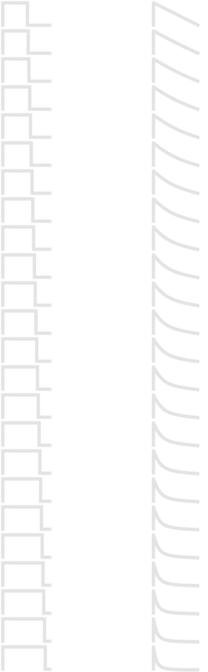
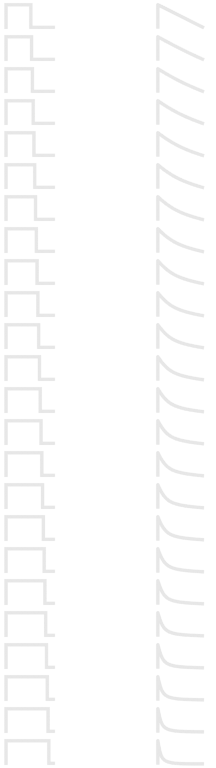
Make the osc PW animation match the sound
Also improve the LFO waveforms animation sharpness.

Also adjust the display range of Osc 2 PW Offset parameter to match what's actually happening.

diff --git a/src/PluginEditor.cpp b/src/PluginEditor.cpp
@@ -1548,6 +1548,7 @@ void ObxfAudioProcessorEditor::idle()
     }
 
     countTimer++;
+
     if (countTimer == 4 && needNotifytoHost)
     {
         countTimer = 0;
@@ -1556,14 +1557,19 @@ void ObxfAudioProcessorEditor::idle()
     }
 
     if (midiLearnButton)
+    {
         midiLearnButton->setToggleState(paramAdapter.midiLearnAttachment.get(),
                                         juce::dontSendNotification);
+    }
 
     if (midiUnlearnButton)
+    {
         midiUnlearnButton->setToggleState(paramAdapter.midiUnlearnAttachment.get(),
                                           juce::dontSendNotification);
+    }
 
     countTimerForLed++;
+
     if (midiUnlearnButton && midiUnlearnButton->getToggleState() && countTimerForLed > 3)
     {
         midiUnlearnButton->setToggleState(false, juce::NotificationType::sendNotification);
@@ -1580,10 +1586,14 @@ void ObxfAudioProcessorEditor::idle()
             if (voiceLEDs[i])
             {
                 if (i >= curPoly && voiceLEDs[i]->isVisible())
+                {
                     voiceLEDs[i]->setVisible(false);
+                }
 
                 if (i < curPoly && !voiceLEDs[i]->isVisible())
+                {
                     voiceLEDs[i]->setVisible(true);
+                }
             }
         }
 
@@ -1593,7 +1603,9 @@ void ObxfAudioProcessorEditor::idle()
                 juce::jmin(static_cast<float>(processor.uiState.voiceStatusValue[i]), 1.f) * 24.f);
 
             if (voiceLEDs[i] && state != voiceLEDs[i]->getCurrentFrame())
+            {
                 voiceLEDs[i]->setCurrentFrame(state);
+            }
         }
 
         for (int i = curPoly; i < MAX_VOICES; i++)
@@ -1607,9 +1619,9 @@ void ObxfAudioProcessorEditor::idle()
 
     if (osc1PulseLabel && osc2PulseLabel)
     {
-        const auto pw1 = juce::roundToInt(oscPWKnob->getValue() * 23.f);
+        const auto pw1 = juce::roundToInt(oscPWKnob->getValue() * 46.f);
         const auto pw2 =
-            juce::jmin(pw1 + juce::roundToInt(osc2PWOffsetKnob->getValue() * 23.f), 25);
+            juce::jmin(pw1 + juce::roundToInt(osc2PWOffsetKnob->getValue() * 46.f), 49);
 
         osc1PulseLabel->setCurrentFrame(pw1);
         osc2PulseLabel->setCurrentFrame(pw2);
@@ -1620,7 +1632,9 @@ void ObxfAudioProcessorEditor::idle()
         const auto state = juce::roundToInt(lfo1PWSlider->getValue() * 24.f);
 
         if (lfo1Wave2Label && state != lfo1Wave2Label->getCurrentFrame())
+        {
             lfo1Wave2Label->setCurrentFrame(state);
+        }
     }
 
     if (lfo2Wave2Label && lfo2Wave2Label->isVisible())
@@ -1628,7 +1642,9 @@ void ObxfAudioProcessorEditor::idle()
         const auto state = juce::roundToInt(lfo2PWSlider->getValue() * 24.f);
 
         if (lfo2Wave2Label && state != lfo2Wave2Label->getCurrentFrame())
+        {
             lfo2Wave2Label->setCurrentFrame(state);
+        }
     }
 
     const auto fourPole = filter4PoleModeButton && filter4PoleModeButton->getToggleState();
@@ -1638,21 +1654,39 @@ void ObxfAudioProcessorEditor::idle()
     const auto filterModeFrame = fourPole ? (xpanderMode ? 3 : 2) : (bpBlend ? 1 : 0);
 
     if (filterModeLabel && filterModeFrame != filterModeLabel->getCurrentFrame())
+    {
         filterModeLabel->setCurrentFrame(filterModeFrame);
+    }
 
     if (filterOptionsLabel && fourPole != filterOptionsLabel->getCurrentFrame())
+    {
         filterOptionsLabel->setCurrentFrame(fourPole);
+    }
 
     if (filter2PoleBPBlendButton)
+    {
         filter2PoleBPBlendButton->setVisible(!fourPole);
+    }
+
     if (filter2PolePushButton)
+    {
         filter2PolePushButton->setVisible(!fourPole);
+    }
+
     if (filter4PoleXpanderButton)
+    {
         filter4PoleXpanderButton->setVisible(fourPole);
+    }
+
     if (filterModeKnob)
+    {
         filterModeKnob->setVisible(!(fourPole && xpanderMode));
+    }
+
     if (filterXpanderModeMenu)
+    {
         filterXpanderModeMenu->setVisible(fourPole && xpanderMode);
+    }
 
     if (patchNumberMenu && !patchNumberMenu->isPopupActive() &&
         patchNumberMenu->getSelectedId() != processor.getCurrentProgram() + 1)
@@ -1663,10 +1697,14 @@ void ObxfAudioProcessorEditor::idle()
     if (unisonButton && unisonVoicesMenu)
     {
         if (unisonButton->getToggleState() && unisonVoicesMenu->getAlpha() < 1.f)
+        {
             unisonVoicesMenu->setAlpha(1.f);
+        }
 
         if (!unisonButton->getToggleState() && unisonVoicesMenu->getAlpha() == 1.f)
-            unisonVoicesMenu->setAlpha(0.5f);
+        {
+            unisonVoicesMenu->setAlpha(0.25f);
+        }
     }
 
     updateSelectButtonStates();

diff --git a/src/parameter/ParameterList.h b/src/parameter/ParameterList.h
@@ -94,8 +94,8 @@ static const std::vector<ParameterInfo> ParameterList{
     {ID::Osc2SawWave, pmd().asBool().withName(Name::Osc2SawWave).withDefault(1.f).withID(4357)},
     {ID::Osc2PulseWave, pmd().asBool().withName(Name::Osc2PulseWave).withID(76818)},
 
-    {ID::OscPW, pmd().asFloat().withName(Name::OscPW).withRange(0.f, 1.f).withExtendFactors(47.5f, 50.f).withLinearScaleFormatting("%").withDefault(0.f).withDecimalPlaces(1).withID(9859834)},
-    {ID::Osc2PWOffset, pmd().asFloat().withName(Name::Osc2PWOffset).withRange(0.f, 1.f).asPercent().withDecimalPlaces(1).withID(232240)},
+    {ID::OscPW, pmd().asFloat().withName(Name::OscPW).withRange(0.f, 1.f).withExtendFactors(47.5f, 50.f).withLinearScaleFormatting("%").withDecimalPlaces(1).withID(9859834)},
+    {ID::Osc2PWOffset, pmd().asFloat().withName(Name::Osc2PWOffset).withRange(0.f, 1.f).withExtendFactors(47.5f, 0.f).withLinearScaleFormatting("%").withDecimalPlaces(1).withID(232240)},
 
     {ID::EnvToPitchAmount, pmd().asFloat().withName(Name::EnvToPitchAmount).asSemitoneRange(0.f, 36.f).withDecimalPlaces(2).withID(7878921)},
     {ID::EnvToPitchBothOscs, pmd().asBool().withName(Name::EnvToPitchBothOscs).withDefault(1.f).withID(222232)},
